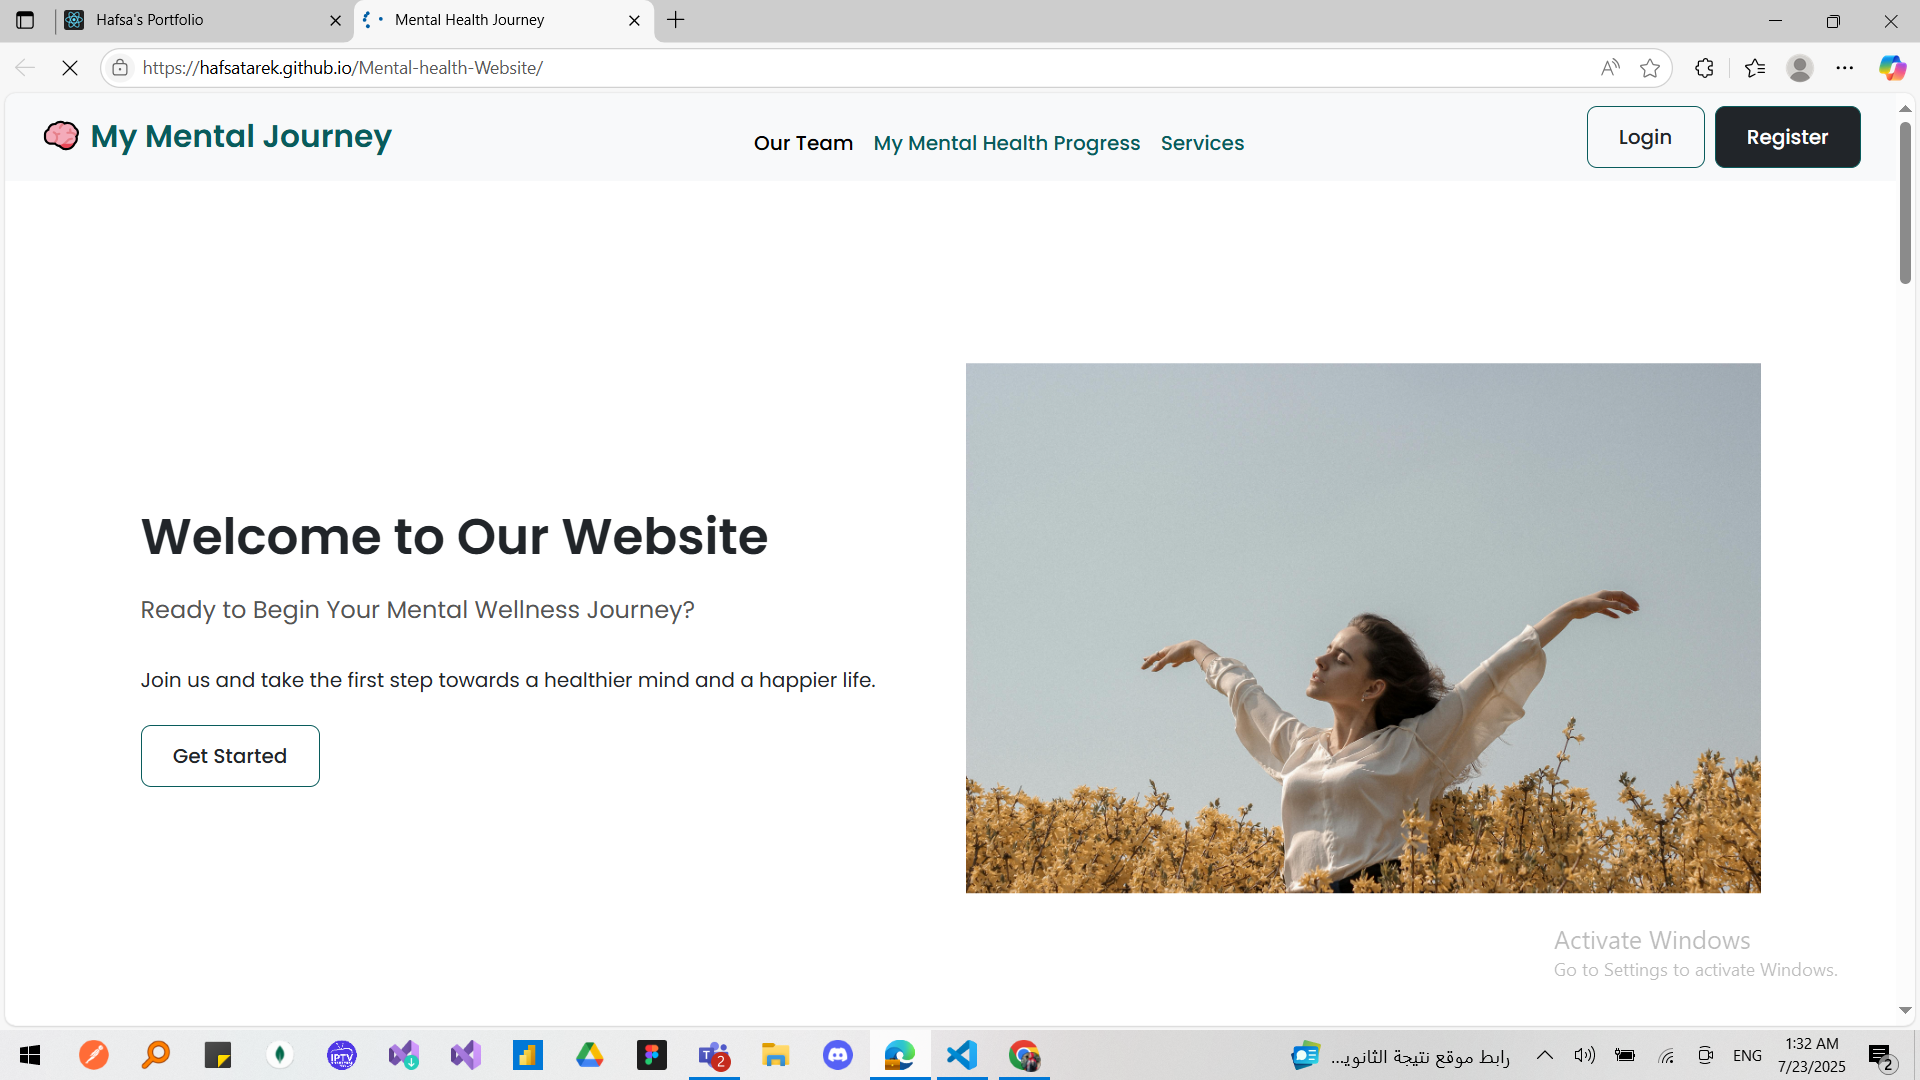
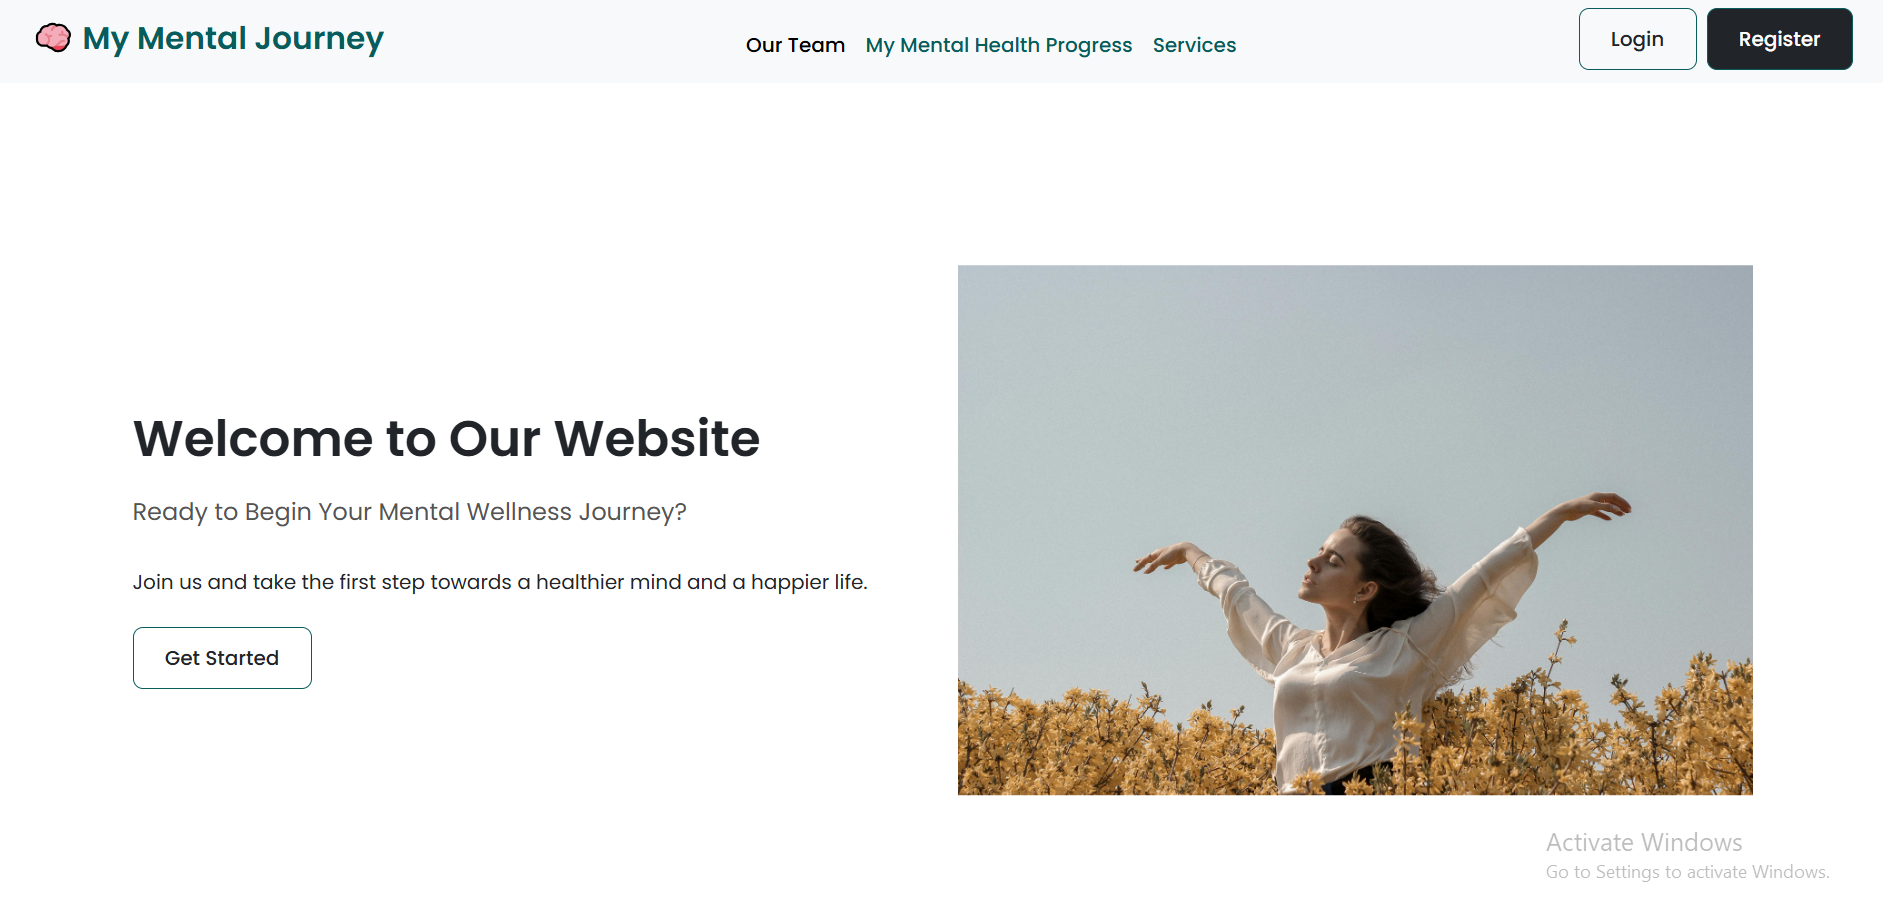
I added active navlinks logic

diff --git a/src/Header/Header.jsx b/src/Header/Header.jsx
@@ -1,20 +1,42 @@
-import { Link, Link as ScrollLink } from "react-scroll";
+import { useState } from "react";
+import { Link as ScrollLink } from "react-scroll";
 import "./Header.css";
 
+const navItems = [
+  { label: "Home", to: "hero" },
+  { label: "About", to: "about" },
+  { label: "Skills", to: "skills" },
+  { label: "Projects", to: "projects" },
+  { label: "Get in Touch", to: "contact" },
+];
+
 const Header = () => {
+  const [activeLink, setActiveLink] = useState("hero");
+
+  const handleSetActive = (to) => {
+    setActiveLink(to);
+  };
+
   return (
     <nav className="navbar navbar-expand-lg navbar-dark bg-pink">
       <div className="container">
-        <Link className="navbar-brand fw-bold" to="/">
+        <ScrollLink
+          className="navbar-brand fw-bold"
+          to="hero"
+          smooth={true}
+          duration={200}
+          offset={-70}
+          onClick={() => handleSetActive("hero")}
+        >
           Hafsa Hikal
-        </Link>
+        </ScrollLink>
+
         <button
           className="navbar-toggler"
           type="button"
           data-bs-toggle="collapse"
           data-bs-target="#navbarNav"
         >
-          {/* toggler buton needs some fix */}
           <span className="navbar-toggler-icon"></span>
         </button>
 
@@ -23,61 +45,22 @@ const Header = () => {
           id="navbarNav"
         >
           <ul className="navbar-nav gap-3">
-            <li className="nav-item">
-              <ScrollLink
-                className="nav-link"
-                to="hero"
-                smooth={true}
-                duration={200}
-                offset={-70}
-              >
-                Home
-              </ScrollLink>
-            </li>
-            <li className="nav-item">
-              <ScrollLink
-                className="nav-link"
-                to="about"
-                smooth={true}
-                duration={200}
-                offset={-70}
-              >
-                About
-              </ScrollLink>
-            </li>
-            <li className="nav-item">
-              <ScrollLink
-                className="nav-link"
-                to="skills"
-                smooth={true}
-                duration={200}
-                offset={-70}
-              >
-                Skills
-              </ScrollLink>
-            </li>
-            <li className="nav-item">
-              <ScrollLink
-                className="nav-link"
-                to="projects"
-                smooth={true}
-                duration={200}
-                offset={-70}
-              >
-                Projects
-              </ScrollLink>
-            </li>
-            <li className="nav-item">
-              <ScrollLink
-                className="nav-link"
-                to="contact"
-                smooth={true}
-                duration={200}
-                offset={-70}
-              >
-                Get in Touch
-              </ScrollLink>
-            </li>
+            {navItems.map((item) => (
+              <li className="nav-item" key={item.to}>
+                <ScrollLink
+                  className={`nav-link ${
+                    activeLink === item.to ? "active" : ""
+                  }`}
+                  to={item.to}
+                  smooth={true}
+                  duration={200}
+                  offset={-70}
+                  onClick={() => handleSetActive(item.to)}
+                >
+                  {item.label}
+                </ScrollLink>
+              </li>
+            ))}
           </ul>
         </div>
       </div>

diff --git a/src/Header/Header.css b/src/Header/Header.css
@@ -3,14 +3,14 @@
   background-color: var(--background-color);
 }
 
-.navbar{
+.navbar {
   position: fixed !important;
   z-index: 50 !important;
   width: 100%;
 }
 
 .navbar-brand {
-  font-size: 2rem;
+  font-size: 1.5rem;
   color: var(--primary-color) !important; /* pink color */
   font-family: "Poppins", sans-serif;
   letter-spacing: 1px;
@@ -18,7 +18,6 @@
   padding-left: 10px;
   cursor: pointer;
 }
-
 
 .navbar-brand:hover {
   transform: scale(1.05);
@@ -37,25 +36,34 @@
 .navbar .nav-link::after {
   content: "";
   position: absolute;
-  width:0%;
-  height:1.5px;
-  left:0;
-  bottom:-4px;
+  width: 0%;
+  height: 1.5px;
+  left: 0;
+  bottom: -4px;
   background-color: var(--primary-color);
   transition: 0.3s ease;
 }
 
 .navbar .nav-link:hover::after {
-  width:100%;
+  width: 100%;
 }
 
 .navbar .nav-link:hover {
   color: #ff1493;
 }
 
+.navbar .nav-link.active {
+  color: #e62c8f !important;
+  font-weight: 600;
+}
+
+.navbar .nav-link.active::after {
+  width: 100%;
+}
+
 .navbar-toggler {
   border-color: #e91e63 !important;
   background-color: var(--primary-color) !important;
-  color:var(--background-color) !important;
+  color: var(--background-color) !important;
   font-weight: 500 !important;
 }
